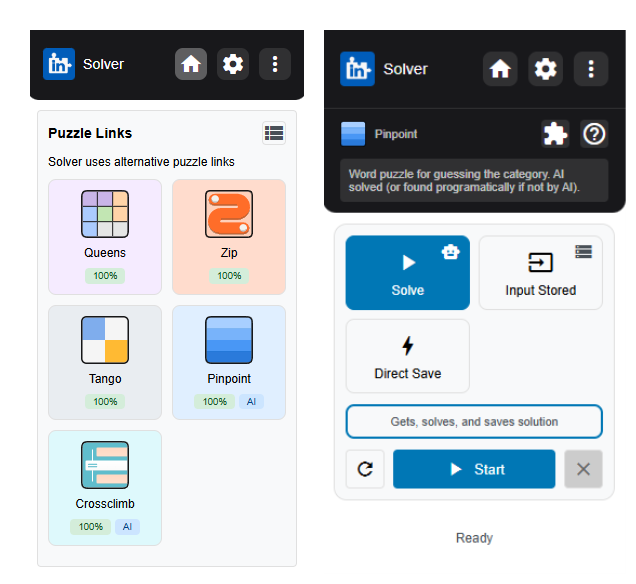
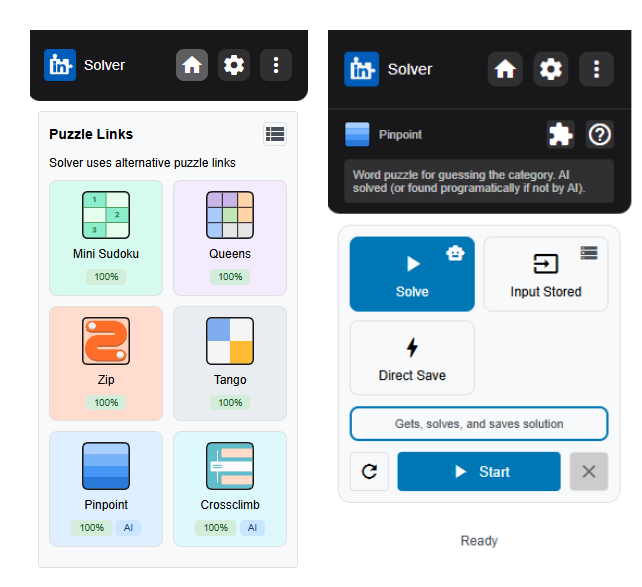
updated readme

diff --git a/README.md b/README.md
@@ -1,17 +1,17 @@
 # LinkedIn Solver
 
-A collection of automated solvers for all of the LinkedIn games including Queens, Zip, Tango, Pinpoint, and Crossclimb. There are two versions for each solver, a Chrome browser extension using HTML, CSS, and JS, and stand alone browser automation scripts using Playwright. Used OpenAI for puzzle solving where applicable.
+A collection of automated solvers for all of the LinkedIn games including Mini Sudoku, Queens, Zip, Tango, Pinpoint, and Crossclimb. There are two versions for each solver, a Chrome browser extension using HTML, CSS, and JS, and stand alone browser automation scripts using Playwright. Used OpenAI for puzzle solving where applicable.
 
 ## Features
 
 - Chrome browser extension
 - Stand alone scripts for solving each puzzle
+- Mini Sudoku puzzle solver
 - Queens puzzle solver
 - Zip puzzle solver
 - Tango puzzle solver
 - Pinpoint puzzle solver
 - Crossclimb puzzle solver
-- Mini Sudoku puzzle solver
 
 ![LinkedIn Game Solver Browser Extension User Interface](icons/user_interface.png)
 
@@ -52,6 +52,11 @@ The project includes a Chrome extension that can be used to solve puzzles direct
 ## Script Usage
 
 Each puzzle solver can be run using npm scripts:
+
+### Mini Sudoku Solver
+```bash
+npm run start:mini-sudoku
+```
 
 ### Queens Solver
 ```bash
@@ -96,11 +101,6 @@ npm run start:crossclimb:direct
 
 # Default solver (Get)
 npm run start:crossclimb
-```
-
-### Mini Sudoku Solver
-```bash
-npm run start:mini-sudoku
 ```
 
 ## How it Works
